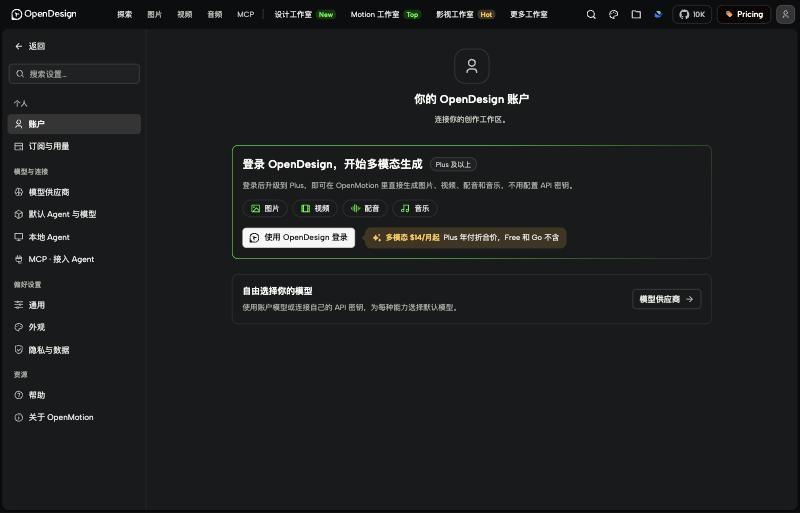
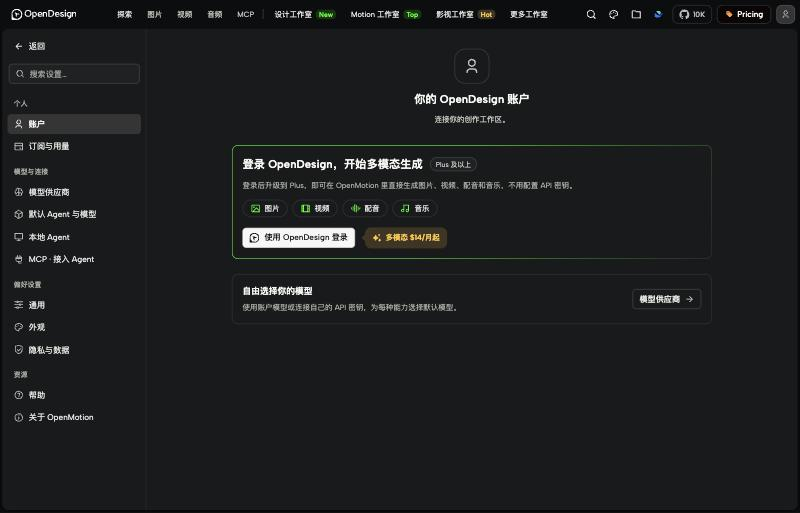
feat(settings): keep only the price in the account plan note
Drop the 'Plus, billed yearly. Not in Free or Go.' detail so the note reads
just 'Multimodal from $14/mo'; the offer detail is now optional. Refresh the
signed-out, Free and Go screenshots (mock account data).

Changed region(s): [[0.5312, 0.4366, 0.7188, 0.499]]

diff --git a/studio/src/motion/accountOffer.ts b/studio/src/motion/accountOffer.ts
@@ -6,18 +6,17 @@ export const MULTIMODAL_CAPABILITIES = [
   { icon: 'music-2-line', label: 'Music' },
 ] as const;
 
-export type AccountOffer = { title: string; detail: string; startsAt: string; endsAt?: string };
+export type AccountOffer = { title: string; detail?: string; startsAt: string; endsAt?: string };
 
 /**
  * The note beside the sign-in and upgrade guides: the lowest price that includes multimodal generation. Plus is the
  * lowest plan with image, video and audio models (Free and Go have none), and its standing annual price is $168 a
- * year, $14 a month (open-design.ai/pricing, read 2026-11-21; Pro $840, Max $1,680 a year). No price is delivered to
+ * year, $14 a month billed yearly (open-design.ai/pricing, read 2026-11-21; Pro $840, Max $1,680 a year). No price is delivered to
  * Studio by Prism or AMR, so update this copy in settings-ui.json for every locale when that price changes. A
  * time-limited campaign sets `endsAt`.
  */
 export const ACCOUNT_OFFER: AccountOffer | null = {
   title: 'Multimodal from $14/mo',
-  detail: 'Plus, billed yearly. Not in Free or Go.',
   startsAt: '2026-11-19T00:00:00Z',
 };
 

diff --git a/studio/src/motion/AccountSettings.test.tsx b/studio/src/motion/AccountSettings.test.tsx
@@ -179,7 +179,7 @@ it.each(['account', 'subscription'] as const)('shows the same sign-in benefits o
   expect(page.querySelector('.om-plan-guide .om-button')?.textContent).toBe('使用 OpenDesign 登录');
   expect([...page.querySelectorAll('.om-account-capabilities li')].map(item => item.textContent)).toEqual(['图片', '视频', '配音', '音乐']);
   expect(page.querySelector('.om-plan-guide p')?.textContent).toBe('登录后升级到 Plus，即可在 OpenMotion 里直接生成图片、视频、配音和音乐，不用配置 API 密钥。');
-  expect(page.querySelector('.om-account-offer')?.textContent).toBe('多模态 $14/月起Plus 年付折合价，Free 和 Go 不含');
+  expect(page.querySelector('.om-account-offer')?.textContent).toBe('多模态 $14/月起');
   expect(page.querySelectorAll('.om-account-metrics .om-card')).toHaveLength(section === 'subscription' ? 2 : 0);
   expect(page.querySelector('[data-guide="upgrade"]')).toBeNull();
 });

diff --git a/studio/src/motion/ModelSettings.test.tsx b/studio/src/motion/ModelSettings.test.tsx
@@ -207,7 +207,7 @@ for (const [summary, heading, action] of [
   await mount('account');
   const guide = document.querySelector('.om-plan-guide')!;
   expect(guide.querySelector('.om-plan-guide-head h2')?.textContent).toBe(heading);
-  expect(guide.textContent).toContain('Images'); expect(guide.textContent).toContain('Music'); expect(guide.textContent).toContain('Multimodal from $14/mo'); expect(guide.textContent).toContain('Not in Free or Go.');
+  expect(guide.textContent).toContain('Images'); expect(guide.textContent).toContain('Music'); expect(guide.textContent).toContain('Multimodal from $14/mo');
   expect(guide.textContent).toContain(action);
   expect(document.querySelector('.om-account-callout')).toBeNull();
   expect(document.querySelector('.om-provider-detail-inner > .om-settings-tags')).toBeNull();

diff --git a/studio/src/motion/AccountSettings.tsx b/studio/src/motion/AccountSettings.tsx
@@ -55,7 +55,7 @@ function GuideCapabilities() {
 
 function GuideOffer({ callout = false }: { callout?: boolean }) {
   const { t } = useI18n(), offer = activeAccountOffer();
-  return offer && <p className={callout ? 'om-account-offer om-account-offer-callout' : 'om-account-offer'}><RemixIcon name="sparkling-fill" size={15} /><strong>{t(offer.title)}</strong><span>{t(offer.detail)}</span></p>;
+  return offer && <p className={callout ? 'om-account-offer om-account-offer-callout' : 'om-account-offer'}><RemixIcon name="sparkling-fill" size={15} /><strong>{t(offer.title)}</strong>{offer.detail && <span>{t(offer.detail)}</span>}</p>;
 }
 
 /** Signed-out guide shared by the account page and the OpenDesign provider: what signing in unlocks. */
